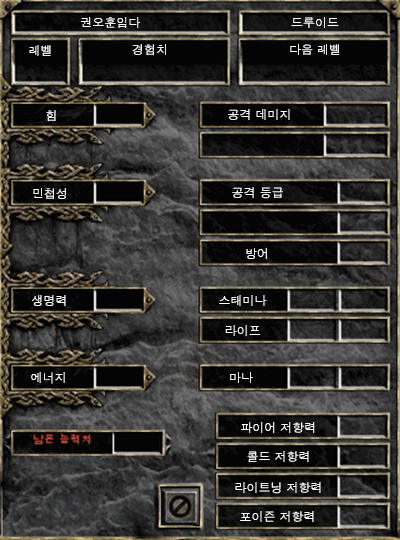
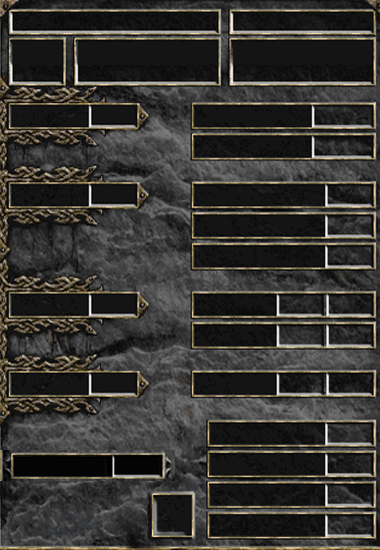
UI : Stat 창 띄우기 완로

diff --git a/lucifer/lucifer/static/js/game/MainGame.js b/lucifer/lucifer/static/js/game/MainGame.js
@@ -27,15 +27,11 @@ var Player_Status = new Array('Stand', 'Walk', 'Attack', 'Damage', 'Dash', 'Jump
 var MoveCheck = false;								//Mouse가 클릭 됬는지 체크 하는 변수
 var StandCheck = false;								//Stand 상태 한번만 들어오게 하기 위해서.
 var Cursor, MousePosX, MousePosY, DistanceToMouse;	//Mouse에 대한 거리 값을 구하기 위한 변수들	
-//var MouseBody;									//Monster와 충돌에 사용될 Mouse body
 var AngleToPointer, Direction;						//Mouse에 대한 Angle 값을 구하기 위한 변수들
-//var Player_AttackRect = {left: null, right: null, top: null, bottom: null }; //공격 범위 Rect
-//var Player_RectBounds;
+var DistanceToMonster;								//Monster에 대한 거리값 변수.
 //----------------------------------------------------------------------------------------------------------
 var Background_map, Stage1, Stage1_Wall_Layer;		//Stage 이미지 변수								
 var Collision_Layer;								//Collision Layer
-//----------------------------------------------------------------------------------------------------------
-var UI_Group, UI_UnderBar, UI_HpBar, UI_MpBar, UI_QuickSlot, UI_Stat;	//UI 이미지 변수.
 //----------------------------------------------------------------------------------------------------------
 var Stage1_ObjectGroup;								//Stage1 - Object 관련 변수.
 
@@ -113,14 +109,17 @@ function preload(){
 								  '../../static/images/game/Player/Bavarian/stand/Stand.png', 200, 200);
 	Lucifer_Game.load.spritesheet('PY_Bavarian_Walk', 
 		 					      '../../static/images/game/Player/Bavarian/walk/Walk.png', 200, 200);
+	Lucifer_Game.load.spritesheet('PY_Bavarian_Attack',
+								  '../../static/images/game/Player/Bavarian/attack/attack.png', 200, 200);
 	//----------------------------------------------------------------------------------------------------------
 	
 	//UI : spritesheet(Image로 불러오는 것으로 해야될수도 있음. 아직 UI 안들어 가서 보류)
 	//----------------------------------------------------------------------------------------------------------
-	Lucifer_Game.load.spritesheet('UI_UnderBar', '../../static/images/game/UI/UnderBar/Modify_UnderBar.png', 1280, 150);
-	Lucifer_Game.load.spritesheet('UI_HpBar', '../../static/images/game/UI/UnderBar/Modify_HpBar.png', 134, 134);
-	Lucifer_Game.load.spritesheet('UI_MpBar', '../../static/images/game/UI/UnderBar/Modify_MpBar.png', 134, 134);					
+	//Lucifer_Game.load.spritesheet('UI_UnderBar', '../../static/images/game/UI/UnderBar/Modify_UnderBar.png', 1280, 150);
+	//Lucifer_Game.load.spritesheet('UI_HpBar', '../../static/images/game/UI/UnderBar/Modify_HpBar.png', 134, 134);
+	//Lucifer_Game.load.spritesheet('UI_MpBar', '../../static/images/game/UI/UnderBar/Modify_MpBar.png', 134, 134);					
 	//Lucifer_Game.load.spritesheet('UI_QuickSlot', '../../static/images/game/UI/')	
+	ui_Preload();
 	//----------------------------------------------------------------------------------------------------------
 
 	//Monster
@@ -173,6 +172,19 @@ function create(){
 							  [j, j + 1, j + 2, j + 3, j + 4, j + 5, j + 6], 60, true);
 		j += 8;
 	}	
+
+	//Player Attack Animation / 일단 이건 나중에 생각해보자.
+	j = 0;
+	for(var i = 0; i < 7; ++i)
+	{	
+		Player.animations.add('PY_Bavarian_Attack_' + i, 
+							  [
+							  	j, j + 1, j + 2, j + 3, j + 4, j + 5, j + 6, j + 7, j + 8, j + 9,
+							  	j + 10, j + 11, j + 12, j + 13, j + 14, j + 15
+							  ], 
+							  60, true);
+		j += 15;				
+	}
 	
 	Player.animations.play('PY_Bavarian_Stand_0', 10, true);
 	Player.anchor.setTo(0.5, 0.5);	
@@ -188,33 +200,14 @@ function create(){
 	Lucifer_Game.physics.p2.enable(Player);	
 	Player.body.fixedRotation = true;
 	Player.body.clearShapes();				   //Remove default Collision Box
-	Player.body.addRectangle(40, 60, 0, 0);   //Only the lower part of the player Collides
+	Player.body.addRectangle(40, 60, 0, 0);    //Only the lower part of the player Collides
 	Player.body.debug = true;				   //Player Rect 표시	
-
-	//Player_RectBounds = new Phaser.Rectangle(Player.x, Player.y, 200, 100);
-	//MouseBody = new p2.Body();
 	//---------------------------------------------------------------------------------------	
-
-	//Uesr Interface
-	//---------------------------------------------------------------------------------------
-	//UI_Group = Lucifer_Game.add.group();
-	UI_UnderBar = Lucifer_Game.add.sprite(640, 725, 'UI_UnderBar');
-	UI_UnderBar.anchor.setTo(0.5, 0.5);	
-	UI_UnderBar.fixedToCamera = true;
-
-	UI_HpBar = Lucifer_Game.add.sprite(115, 725, 'UI_HpBar');
-	UI_HpBar.anchor.setTo(0.5, 0.5);
-	UI_HpBar.fixedToCamera = true;
-
-	UI_MpBar = Lucifer_Game.add.sprite(1165, 725, 'UI_MpBar');
-	UI_MpBar.anchor.setTo(0.5, 0.5);
-	UI_MpBar.fixedToCamera = true;	
-	//---------------------------------------------------------------------------------------
 
 	//Player Id Text(Test Code)
 	//---------------------------------------------------------------------------------------
-	Lucifer_Game.physics.enable(Player, Phaser.Physics.ARCADE);	
 	Player_ID = Lucifer_Game.add.text(Player.x, Player.y - 100, nickname); //Test 부분에 Player Id 가 들어가면 됨.
+	Lucifer_Game.physics.enable(Player, Phaser.Physics.ARCADE);
 
 	//Center align
 	Player_ID.anchor.set(0.5);
@@ -232,7 +225,12 @@ function create(){
 	//Monster Create
 	//---------------------------------------------------------------------------------------
 	golem_Create();
-	//---------------------------------------------------------------------------------------	
+	//---------------------------------------------------------------------------------------
+
+	//UI Create
+	//---------------------------------------------------------------------------------------
+	ui_Create();
+	//---------------------------------------------------------------------------------------
 }
 
 function GetDirection(){
@@ -303,6 +301,12 @@ function Animation_Change(Direction, Status)
 		Player.loadTexture('PY_Bavarian_Walk', 0, true)
 		Player.animations.play('PY_Bavarian_Walk_' + Direction, 10, true);
 	}
+	else if(Status == Player_Status[2])
+	{
+		//Attack
+		Player.loadTexture('PY_Bavarian_Attack', 0, true);
+		Player.animations.play('PY_Bavarian_Attack_' + Direction, 20, true);
+	}
 }
 
 function PlayerMove()
@@ -353,7 +357,85 @@ function PlayerMove()
 	//---------------------------------------------------------------------------------------
 }
 
-//임시로 공격 충돌 체크 확인.
+function CheckOverlap(spriteA, spriteB)
+{
+	var boundsA = spriteA.getBounds();
+	var boundsB = spriteB.getBounds();
+
+	return Phaser.Rectangle.intersects(boundsA, boundsB);
+
+	//Phaser.Rectangle.containsPoint(boundsA, point); 로 해보자.
+}
+
+/*
+var AttackCheck = false;
+function PlayerAttack()
+{
+	//Player Attack Motion (임시로 Monster를 Golem 으로 한정 시킴 나중에 이 함수를 바꿔서 여러 마리랑 가능하게 해야됨.)
+	//---------------------------------------------------------------------------------------
+	DistanceToMonster = Phaser.Math.distance(Player.x, Player.y, mon_Golem.x, mon_Golem.y);
+
+	//var pointer = Lucifer_Game.input.mousePointer;
+	//var bodies = Lucifer_Game.physics.p2.hitTest(pointer.position, [mon_Golem]);
+
+	var maxFrame = Player.animations.frameTotal;
+
+	if(DistanceToMonster < 70)
+	{	
+		if(CheckOverlap(Player, mon_Golem))
+		{
+			//if(AttackCheck == false)
+			//{
+				Animation_Change(Direction, 'Attack');			
+				console.log('Attack');
+				//AttackCheck = true;
+			//}			
+		}
+		//else
+		//{
+		//	AttackCheck = false;
+		//}									
+	}		
+
+	console.log(maxFrame);
+	//---------------------------------------------------------------------------------------	
+}
+*/
+
+function Damage_Count(Player, mon_Golem)
+{	
+	golem_Hp -= 10;
+	console.log('Damage');
+}
+
+function update(){
+	//Player ID
+	//---------------------------------------------------------------------------------------
+	var ID_PosY = Player.position.y + 70;
+	Player_ID.position.x = Player.position.x;
+	Player_ID.position.y = ID_PosY;	
+	//---------------------------------------------------------------------------------------	
+
+	//Player Motion
+	//---------------------------------------------------------------------------------------
+	PlayerMove();
+	//PlayerAttack();
+	//console.log(Player.x, Player.y);
+	//---------------------------------------------------------------------------------------
+
+	//Monster Direction & Move
+	//---------------------------------------------------------------------------------------
+	golem_Namefollw();
+	golem_GetDirection();
+	golem_Move();
+	//---------------------------------------------------------------------------------------	
+
+	//UI
+	//---------------------------------------------------------------------------------------
+	ui_Update();
+	//---------------------------------------------------------------------------------------	
+}
+
 //var MouseConstraint;
 /*
 function Player_Attack()
@@ -388,33 +470,3 @@ function Player_Attack()
 	//}	
 }
 */
-
-//임시로 데미지 계산.
-function Damage_Count()
-{	
-	golem_Hp -= 10;
-	console.log('Damage');
-}
-
-function update(){
-	//Player ID
-	//---------------------------------------------------------------------------------------
-	var ID_PosY = Player.position.y + 70;
-	Player_ID.position.x = Player.position.x;
-	Player_ID.position.y = ID_PosY;	
-	//---------------------------------------------------------------------------------------	
-
-	//Player Motion
-	//---------------------------------------------------------------------------------------
-	PlayerMove();
-	//Player_Attack();
-	//console.log(Player.x, Player.y);
-	//---------------------------------------------------------------------------------------
-
-	//Monster Direction & Move
-	//---------------------------------------------------------------------------------------
-	golem_Namefollw();
-	golem_GetDirection();
-	golem_Move();
-	//---------------------------------------------------------------------------------------		
-}

diff --git a/lucifer/lucifer/static/js/game/UserInterface.js b/lucifer/lucifer/static/js/game/UserInterface.js
@@ -1,0 +1,66 @@
+var player_Hp, player_Mp;
+//----------------------------------------------------------------------------------------------------------
+var UI_Group, UI_UnderBar, UI_HpBar, UI_MpBar, UI_QuickSlot, UI_Stat;	//UI 이미지 변수.
+
+function ui_Preload()
+{
+	//UI
+	Lucifer_Game.load.spritesheet('UI_UnderBar', '../../static/images/game/UI/UnderBar/Modify_UnderBar.png', 1280, 150);
+	Lucifer_Game.load.spritesheet('UI_HpBar', '../../static/images/game/UI/UnderBar/Modify_HpBar.png', 134, 134);
+	Lucifer_Game.load.spritesheet('UI_MpBar', '../../static/images/game/UI/UnderBar/Modify_MpBar.png', 134, 134);
+	Lucifer_Game.load.spritesheet('UI_Stat', '../../static/images/game/UI/Stat/Stat.png', 380, 550);
+}
+
+function ui_Create()
+{
+	//Uesr Interface
+	//---------------------------------------------------------------------------------------
+	//UI_Group = Lucifer_Game.add.group();
+	UI_UnderBar = Lucifer_Game.add.sprite(640, 725, 'UI_UnderBar');
+	UI_UnderBar.anchor.setTo(0.5, 0.5);	
+	UI_UnderBar.fixedToCamera = true;
+
+	UI_HpBar = Lucifer_Game.add.sprite(115, 725, 'UI_HpBar');
+	UI_HpBar.anchor.setTo(0.5, 0.5);
+	UI_HpBar.fixedToCamera = true;
+
+	UI_MpBar = Lucifer_Game.add.sprite(1165, 725, 'UI_MpBar');
+	UI_MpBar.anchor.setTo(0.5, 0.5);
+	UI_MpBar.fixedToCamera = true;	
+
+	UI_Stat = Lucifer_Game.add.sprite(190, 275, 'UI_Stat');
+	UI_Stat.anchor.setTo(0.5, 0.5);
+	UI_Stat.fixedToCamera = true;
+
+	//UI창 드레그 설정.
+	UI_Stat.inputEnabled = true;	
+	UI_Stat.input.enableDrag();
+	//---------------------------------------------------------------------------------------
+
+	//Player Info
+	//---------------------------------------------------------------------------------------
+	/*
+	var UI_StatText_Style = {
+			font: "15px Arial", fill: "#ff0044", wordWrap: true,
+			wordWrapWidth: UI_Stat.width, align: "center"
+	};
+	*/
+
+	var player_Hp = Lucifer_Game.add.text(0, 0, "100");
+	player_Hp.anchor.set(0.5);
+	player_Hp.align = 'center';
+	player_Hp.font = 'Arial';
+	player_Hp.fontSize = 13;
+	player_Hp.fontWeight = 'normal';
+	player_Hp.fill = '#ff0044';
+	//---------------------------------------------------------------------------------------	
+}
+
+function ui_Update()
+{
+	/*
+	player_Hp.x = UI_Stat.position.x + UI_Stat.width / 2;
+	player_Hp.y = UI_Stat.position.y + UI_Stat.height / 2;
+	*/
+}
+

diff --git a/lucifer/game/templates/game/gamestart.html b/lucifer/game/templates/game/gamestart.html
@@ -23,6 +23,7 @@
     <script src="{% static "js/game/Stage1_Object.js" %}"></script> -->   
     <script src="{% static "js/game/MainGame.js" %}"></script>
     <script src="{% static "js/game/Golem.js" %}"></script>
+    <script src="{% static "js/game/UserInterface.js" %}"></script>
     <!-- ************************************************************************************************ -->
 
     <!-- CSS -->
